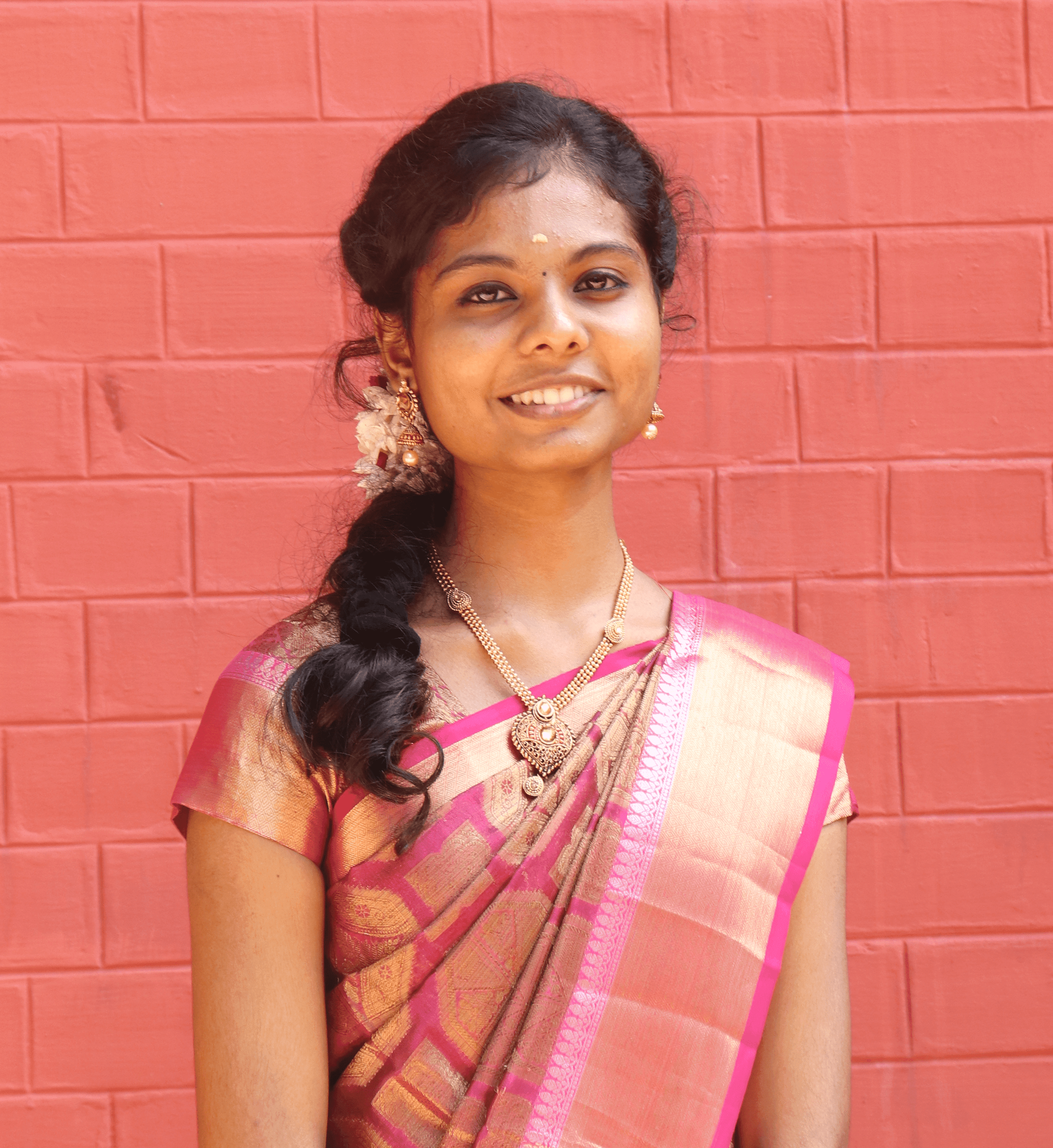
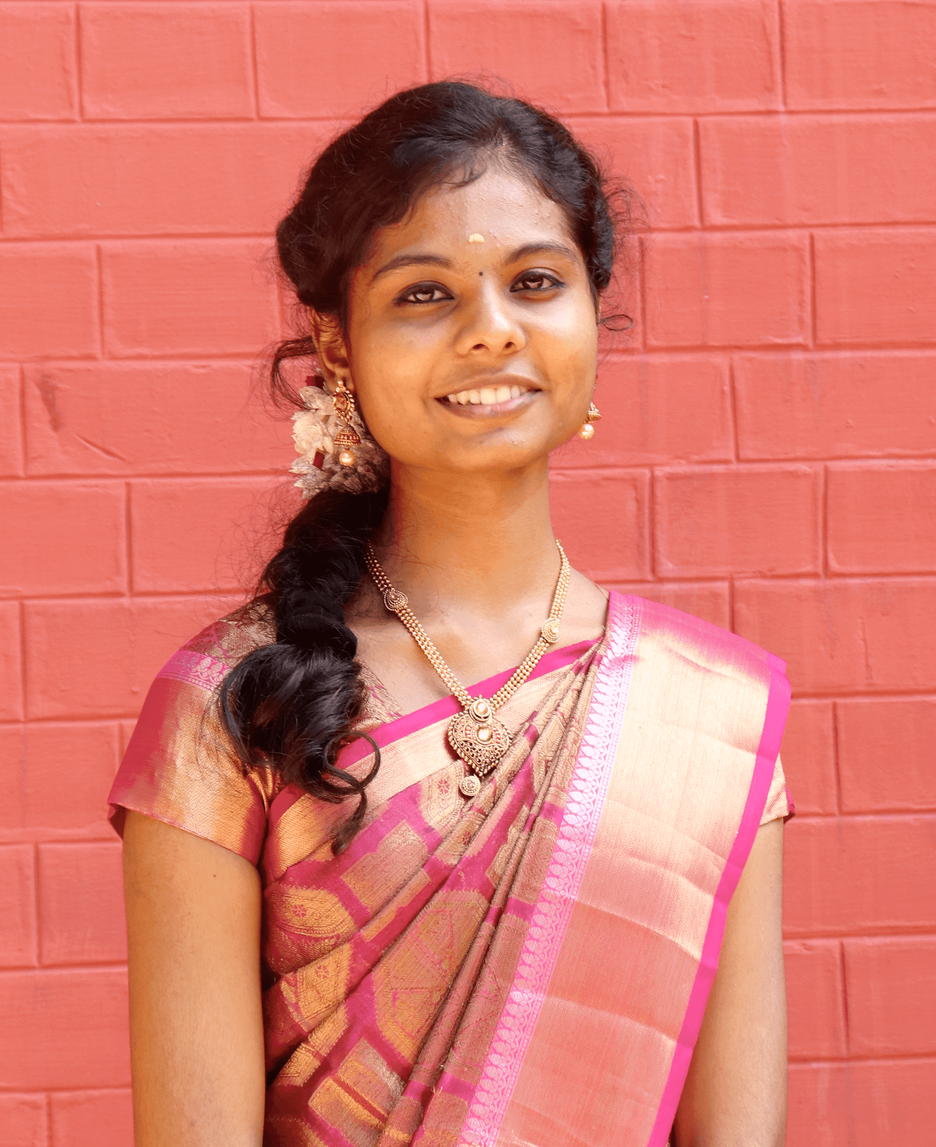
added pictures to home page

diff --git a/FrontEnd/public/assets/css/style.css b/FrontEnd/public/assets/css/style.css
@@ -323,7 +323,6 @@ header h1 {
   margin: 10px 0;
 }
 
-
 @media (max-width: 500px) {
   .info {
     text-align: center;
@@ -332,7 +331,7 @@ header h1 {
 }
 /* ---web and tech cores--- */
 .pics {
-  color: #ccc;
+  text-align: center;
 }
 .pics h1 {
   text-transform: capitalize;
@@ -360,12 +359,17 @@ header h1 {
 .card img {
   height: 250px;
   border-radius: 8px 8px 0 0;
+  object-fit: cover;
+  object-position: 100% 0;
 }
 .card:hover {
   box-shadow: 3px 6px 10px 0 rgba(0, 0, 0, 0.616);
 }
 .card-container {
   padding: 2px 16px;
+}
+.card-container h4 {
+  color: #dadada;
 }
 @media (max-width: 850px) {
   .cards {
